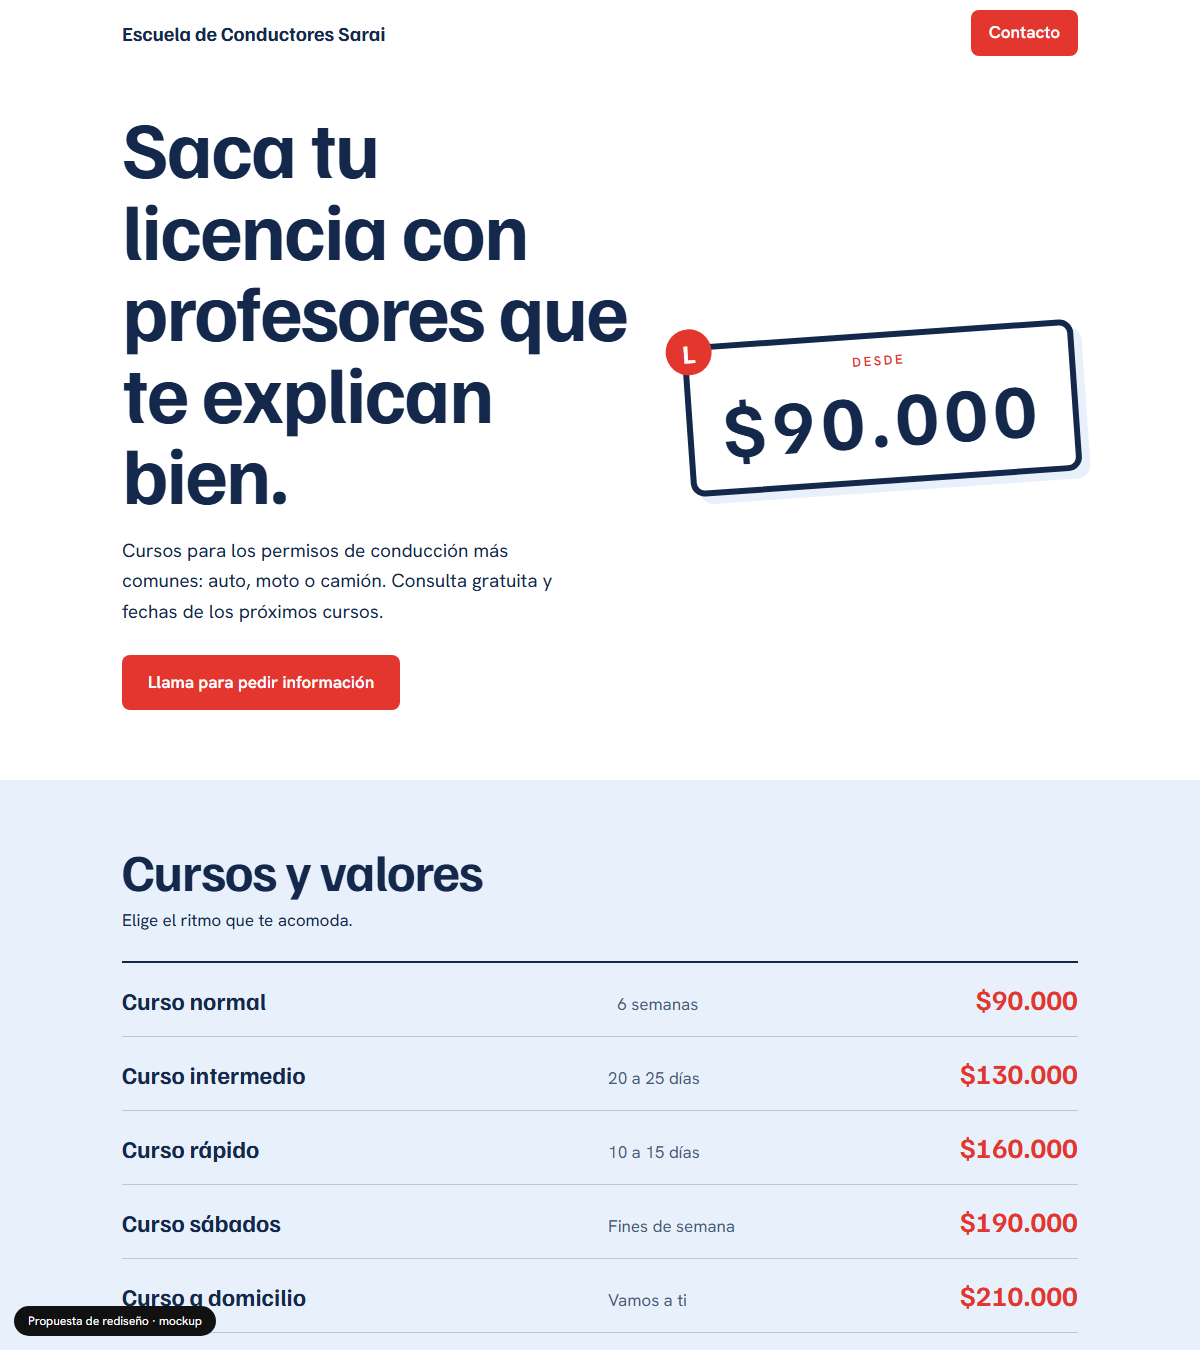
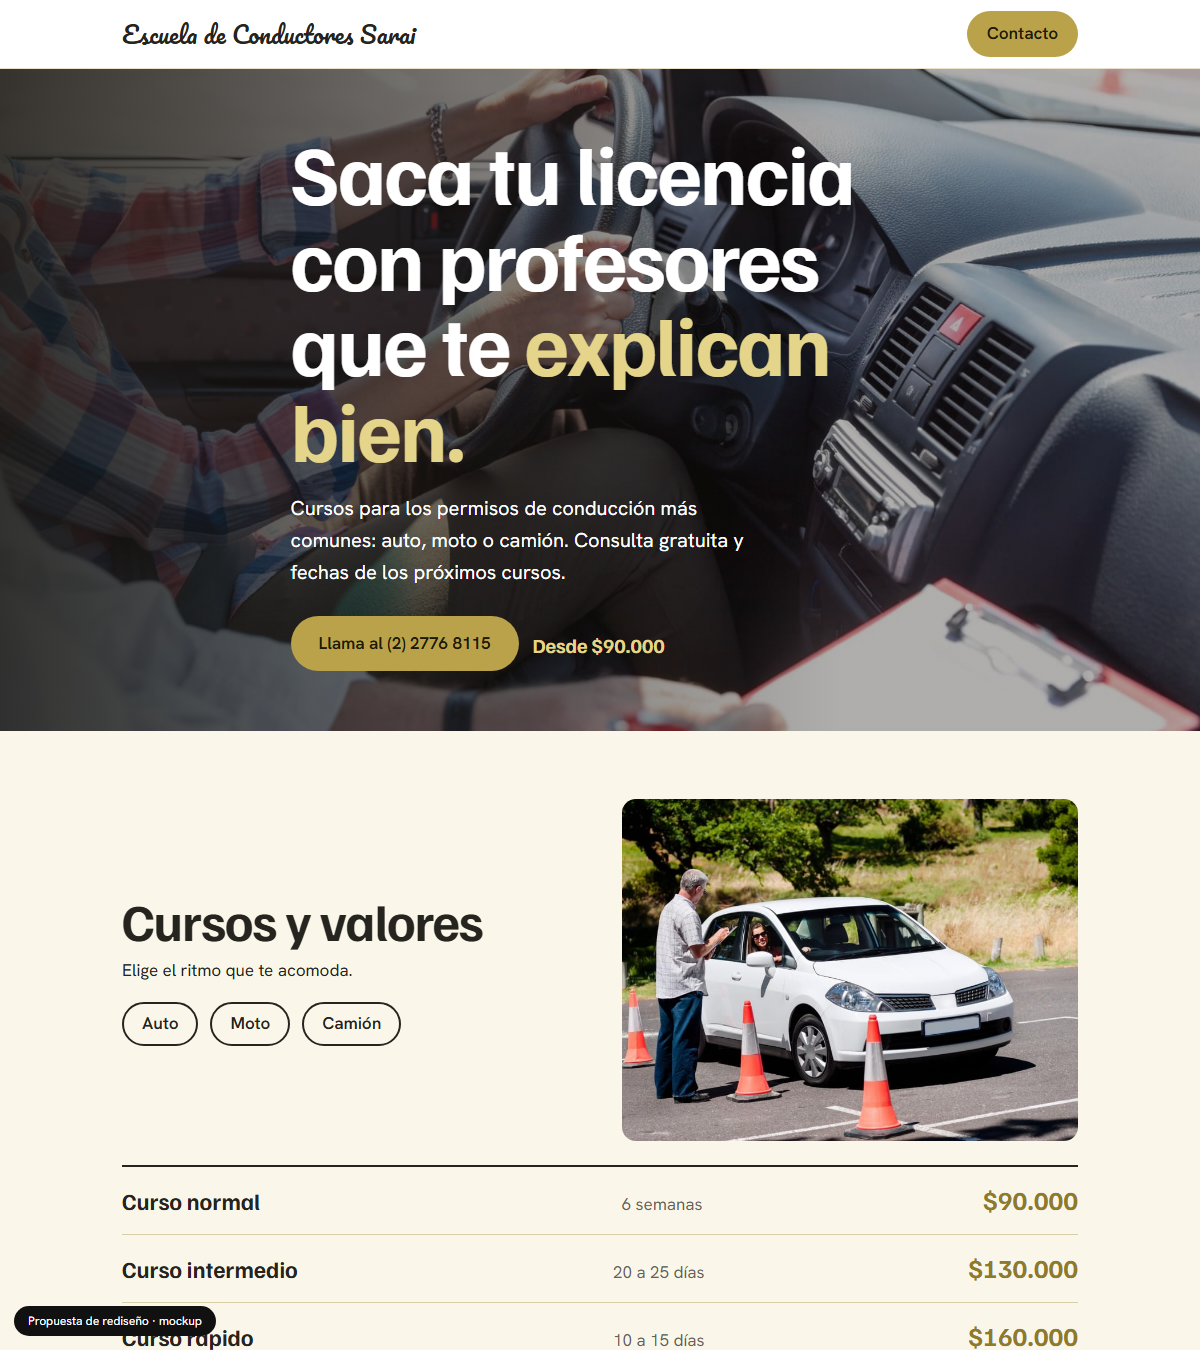
Mockup: escuela-de-conductores-sarai-maipu

diff --git a/escuela-de-conductores-sarai-maipu/index.html b/escuela-de-conductores-sarai-maipu/index.html
@@ -3,40 +3,44 @@
 <meta name="robots" content="noindex,nofollow">
 <title>Escuela de Conductores Sarai · Cursos de conducir en Maipú</title>
 <meta name="description" content="Cursos para sacar tu licencia de auto, moto o camión en Maipú. Desde $90.000. 5% de descuento si vienes de la página.">
-<link href="https://fonts.googleapis.com/css2?family=Familjen+Grotesk:wght@500;700&family=Hanken+Grotesk:wght@400;500;600&display=swap" rel="stylesheet">
+<link href="https://fonts.googleapis.com/css2?family=Pacifico&family=Familjen+Grotesk:wght@500;700&family=Hanken+Grotesk:wght@400;500;600&display=swap" rel="stylesheet">
 <style>
-:root{--navy:#14284b;--red:#e2362f;--sky:#e8f0fb;--ink:#14284b}
+:root{--gold:#b9a24a;--goldd:#8f7a2c;--char:#26241f;--cream:#faf6ea;--ink:#26241f}
 *{box-sizing:border-box;margin:0}html{scroll-behavior:smooth}
-body{background:#fff;color:var(--ink);font:17px/1.6 'Hanken Grotesk',sans-serif}
+body{background:var(--cream);color:var(--ink);font:17px/1.6 'Hanken Grotesk',sans-serif}
 .wrap{max-width:1000px;margin:0 auto;padding:0 22px}
 h1,h2,h3{font-family:'Familjen Grotesk',sans-serif;font-weight:700;line-height:1.02;letter-spacing:-.02em}
-header .wrap{display:flex;justify-content:space-between;align-items:center;height:66px}
-header b{font:700 20px 'Familjen Grotesk'}
-.btn{display:inline-block;background:var(--red);color:#fff;padding:14px 26px;border-radius:8px;font-weight:600;text-decoration:none}
-.btn:hover,.btn:focus-visible{background:var(--navy)}
-.hero{display:grid;grid-template-columns:1.2fr .8fr;gap:40px;align-items:center;padding:40px 0 70px}
-.hero h1{font-size:clamp(40px,7vw,80px)}.hero p{margin:22px 0 28px;font-size:19px;max-width:44ch}
-.plate{justify-self:center;background:#fff;border:6px solid var(--navy);border-radius:14px;padding:14px 30px;font:700 clamp(40px,7vw,76px) 'Familjen Grotesk';letter-spacing:.08em;text-align:center;position:relative;transform:rotate(-4deg);box-shadow:8px 8px 0 var(--sky)}
-.plate small{display:block;font:600 13px 'Hanken Grotesk';letter-spacing:.2em;color:var(--red)}
-.plate::before{content:"L";position:absolute;left:-22px;top:-22px;width:46px;height:46px;border-radius:50%;background:var(--red);color:#fff;display:grid;place-items:center;font-size:26px;letter-spacing:0}
-section{padding:64px 0}h2{font-size:clamp(32px,5vw,52px);margin-bottom:10px}
-.band{background:var(--sky)}
-.prices{margin-top:26px;border-top:2px solid var(--navy)}
-.row{display:grid;grid-template-columns:1.4fr 1fr auto;gap:16px;align-items:baseline;padding:18px 0;border-bottom:1px solid #b9c7e0}
-.row b{font:700 24px 'Familjen Grotesk'}.row span{opacity:.75}.row em{font:700 28px 'Familjen Grotesk';font-style:normal;color:var(--red)}
-.note{margin-top:20px;background:var(--navy);color:#fff;padding:18px 24px;border-radius:10px}
-.perm{display:flex;gap:12px;flex-wrap:wrap;margin-top:18px}.perm span{border:2px solid var(--navy);padding:6px 18px;border-radius:30px;font-weight:600}
-.contact{display:grid;grid-template-columns:1fr 1fr;gap:40px}.contact a{display:block;font-size:22px;font-weight:600;color:var(--red);margin:4px 0}
+header{background:#fff;border-bottom:1px solid #e8e0c8}header .wrap{display:flex;justify-content:space-between;align-items:center;height:68px}
+header b{font:400 24px Pacifico,cursive;color:var(--char)}
+.btn{display:inline-block;background:var(--gold);color:#201b05;padding:14px 28px;border-radius:40px;font-weight:600;text-decoration:none}
+.btn:hover,.btn:focus-visible{background:var(--char);color:#fff}
+.hero{position:relative;min-height:600px;display:flex;align-items:center;color:#fff;background:linear-gradient(90deg,rgba(24,22,16,.86),rgba(24,22,16,.35) 70%),url(assets/hero.jpg) center/cover}
+.hero .wrap{padding-top:60px;padding-bottom:60px}
+.hero h1{font-size:clamp(42px,7vw,84px);max-width:13ch}.hero h1 span{color:#e5d58a}
+.hero p{margin:20px 0 28px;font-size:20px;max-width:44ch}
+.price{display:inline-block;margin-left:14px;vertical-align:middle;font:700 20px 'Familjen Grotesk';color:#e5d58a}
+section{padding:68px 0}h2{font-size:clamp(32px,5vw,52px);margin-bottom:10px}
+.two{display:grid;grid-template-columns:1fr 1fr;gap:44px;align-items:center}
+.two img{width:100%;border-radius:14px;aspect-ratio:4/3;object-fit:cover}
+.prices{margin-top:24px;border-top:2px solid var(--char)}
+.row{display:grid;grid-template-columns:1.4fr 1fr auto;gap:16px;align-items:baseline;padding:16px 0;border-bottom:1px solid #d8cfa8}
+.row b{font:700 23px 'Familjen Grotesk'}.row span{opacity:.7}.row em{font:700 26px 'Familjen Grotesk';font-style:normal;color:var(--goldd)}
+.note{margin-top:20px;background:var(--char);color:#fff;padding:16px 22px;border-radius:10px}.note b{color:#e5d58a}
+.perm{display:flex;gap:12px;flex-wrap:wrap;margin-top:18px}.perm span{border:2px solid var(--char);padding:6px 18px;border-radius:30px;font-weight:600}
+.contact{background:var(--char);color:#fff}.contact h2{color:#fff}
+.contact .wrap{display:grid;grid-template-columns:1fr 1fr;gap:40px}
+.contact a{display:block;font-size:22px;font-weight:600;color:#e5d58a;margin:4px 0}
 footer{padding:26px 0 90px;font-size:14px;opacity:.7}
 .mock{position:fixed;left:14px;bottom:14px;background:#111;color:#fff;font:12px/1 'Hanken Grotesk';padding:9px 14px;border-radius:30px;z-index:9}
-@media(max-width:760px){.hero,.contact{grid-template-columns:1fr}.row{grid-template-columns:1fr auto}.row span{grid-column:1}.plate{margin:20px 20px}}
+@media(max-width:780px){.two,.contact .wrap{grid-template-columns:1fr}.row{grid-template-columns:1fr auto}.row span{grid-column:1}.hero{min-height:520px}}
 </style></head><body>
-<header><div class="wrap"><b>Escuela de Conductores Sarai</b><a class="btn" style="padding:9px 18px" href="#contacto">Contacto</a></div></header>
-<div class="wrap"><div class="hero"><div><h1>Saca tu licencia con profesores que te explican bien.</h1>
+<header><div class="wrap"><b>Escuela de Conductores Sarai</b><a class="btn" style="padding:9px 20px" href="#contacto">Contacto</a></div></header>
+<div class="hero"><div class="wrap"><h1>Saca tu licencia con profesores que te <span>explican bien.</span></h1>
 <p>Cursos para los permisos de conducción más comunes: auto, moto o camión. Consulta gratuita y fechas de los próximos cursos.</p>
-<a class="btn" href="tel:+56227768115">Llama para pedir información</a></div>
-<div class="plate"><small>DESDE</small>$90.000</div></div></div>
-<section class="band"><div class="wrap"><h2>Cursos y valores</h2><p>Elige el ritmo que te acomoda.</p>
+<a class="btn" href="tel:+56227768115">Llama al (2) 2776 8115</a><span class="price">Desde $90.000</span></div></div>
+<section><div class="wrap"><div class="two"><div><h2>Cursos y valores</h2><p>Elige el ritmo que te acomoda.</p>
+<div class="perm"><span>Auto</span><span>Moto</span><span>Camión</span></div></div>
+<img src="assets/clases.jpg" alt="Instructor junto a un auto de prácticas" loading="lazy"></div>
 <div class="prices">
 <div class="row"><b>Curso normal</b><span>6 semanas</span><em>$90.000</em></div>
 <div class="row"><b>Curso intermedio</b><span>20 a 25 días</span><em>$130.000</em></div>
@@ -44,9 +48,8 @@ footer{padding:26px 0 90px;font-size:14px;opacity:.7}
 <div class="row"><b>Curso sábados</b><span>Fines de semana</span><em>$190.000</em></div>
 <div class="row"><b>Curso a domicilio</b><span>Vamos a ti</span><em>$210.000</em></div>
 <div class="row"><b>Solo clases de manejo</b><span>Sin teoría</span><em>$180.000</em></div></div>
-<div class="note"><b>5% de descuento</b> si vienes a nombre de la página.</div>
-<div class="perm"><span>Auto</span><span>Moto</span><span>Camión</span></div></div></section>
-<section id="contacto"><div class="wrap contact"><div><h2>Parte hoy</h2><p>Llámanos o escríbenos y te ayudamos a entender el proceso paso a paso.</p></div>
+<div class="note"><b>5% de descuento</b> si vienes a nombre de la página.</div></div></section>
+<section class="contact" id="contacto"><div class="wrap"><div><h2>Parte hoy</h2><p>Llámanos o escríbenos y te ayudamos a entender el proceso paso a paso.</p></div>
 <div><a href="tel:+56227768115">(2) 2776 8115</a><a href="mailto:christian_sarai@hotmail.com">christian_sarai@hotmail.com</a><p>Pajarito, Paradero 8, Maipú</p></div></div></section>
 <div class="wrap"><footer>Escuela de Conductores Sarai · Maipú</footer></div>
 <div class="mock">Propuesta de rediseño · mockup</div></body></html>
